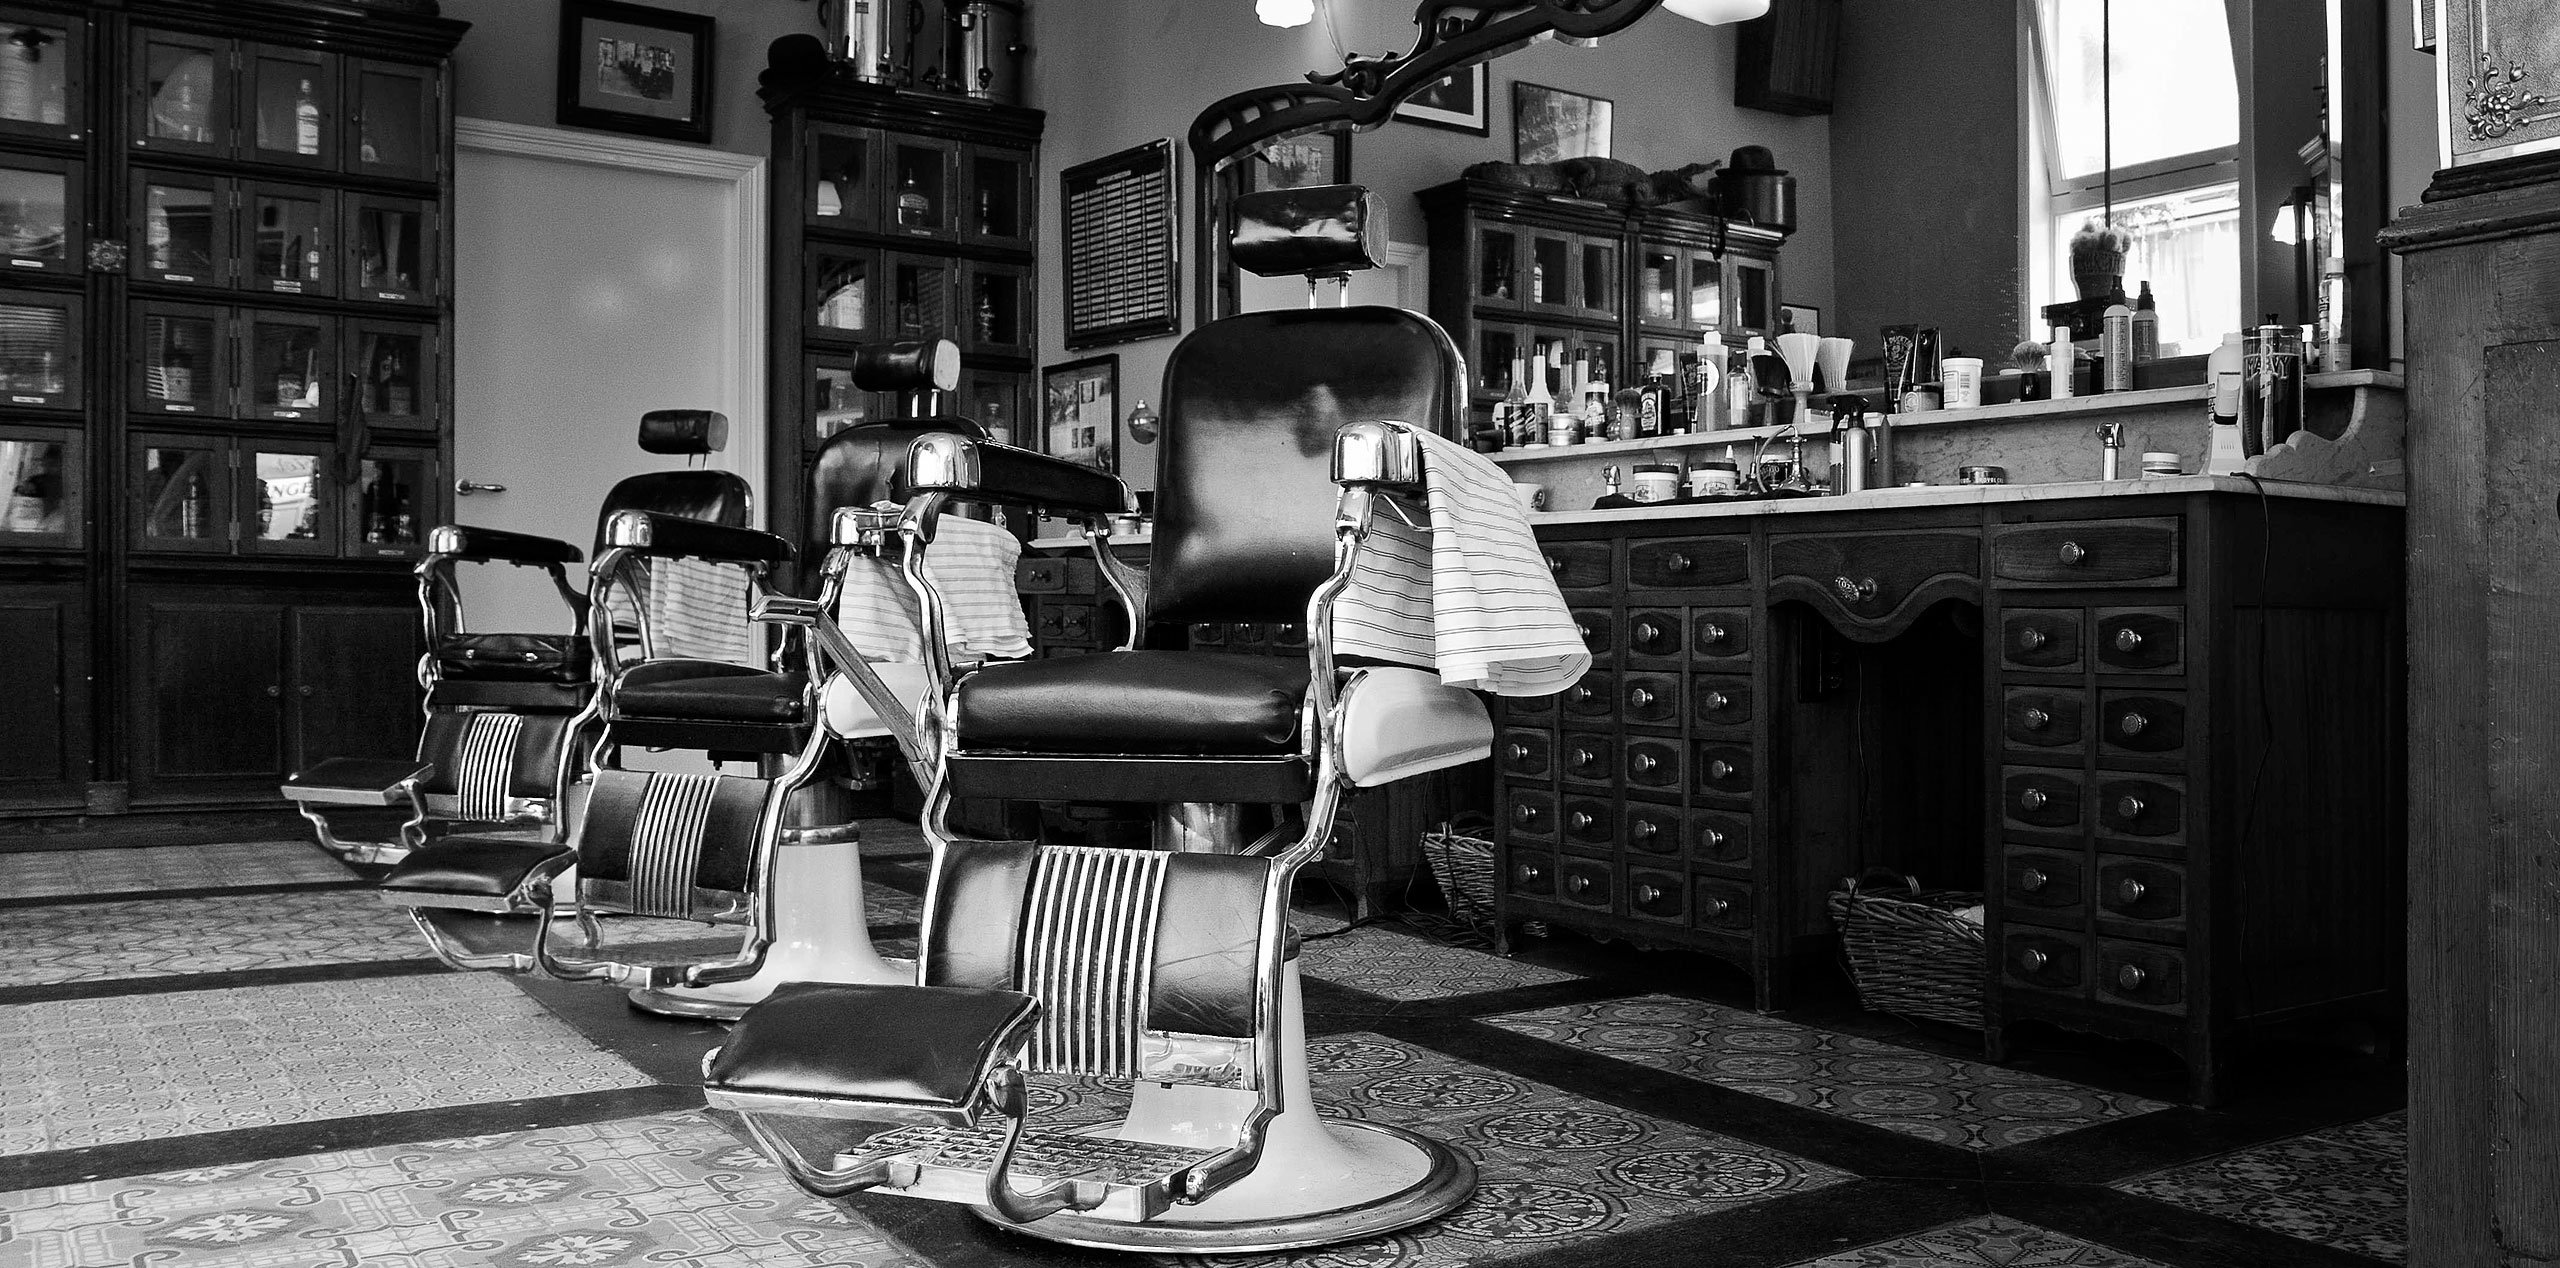
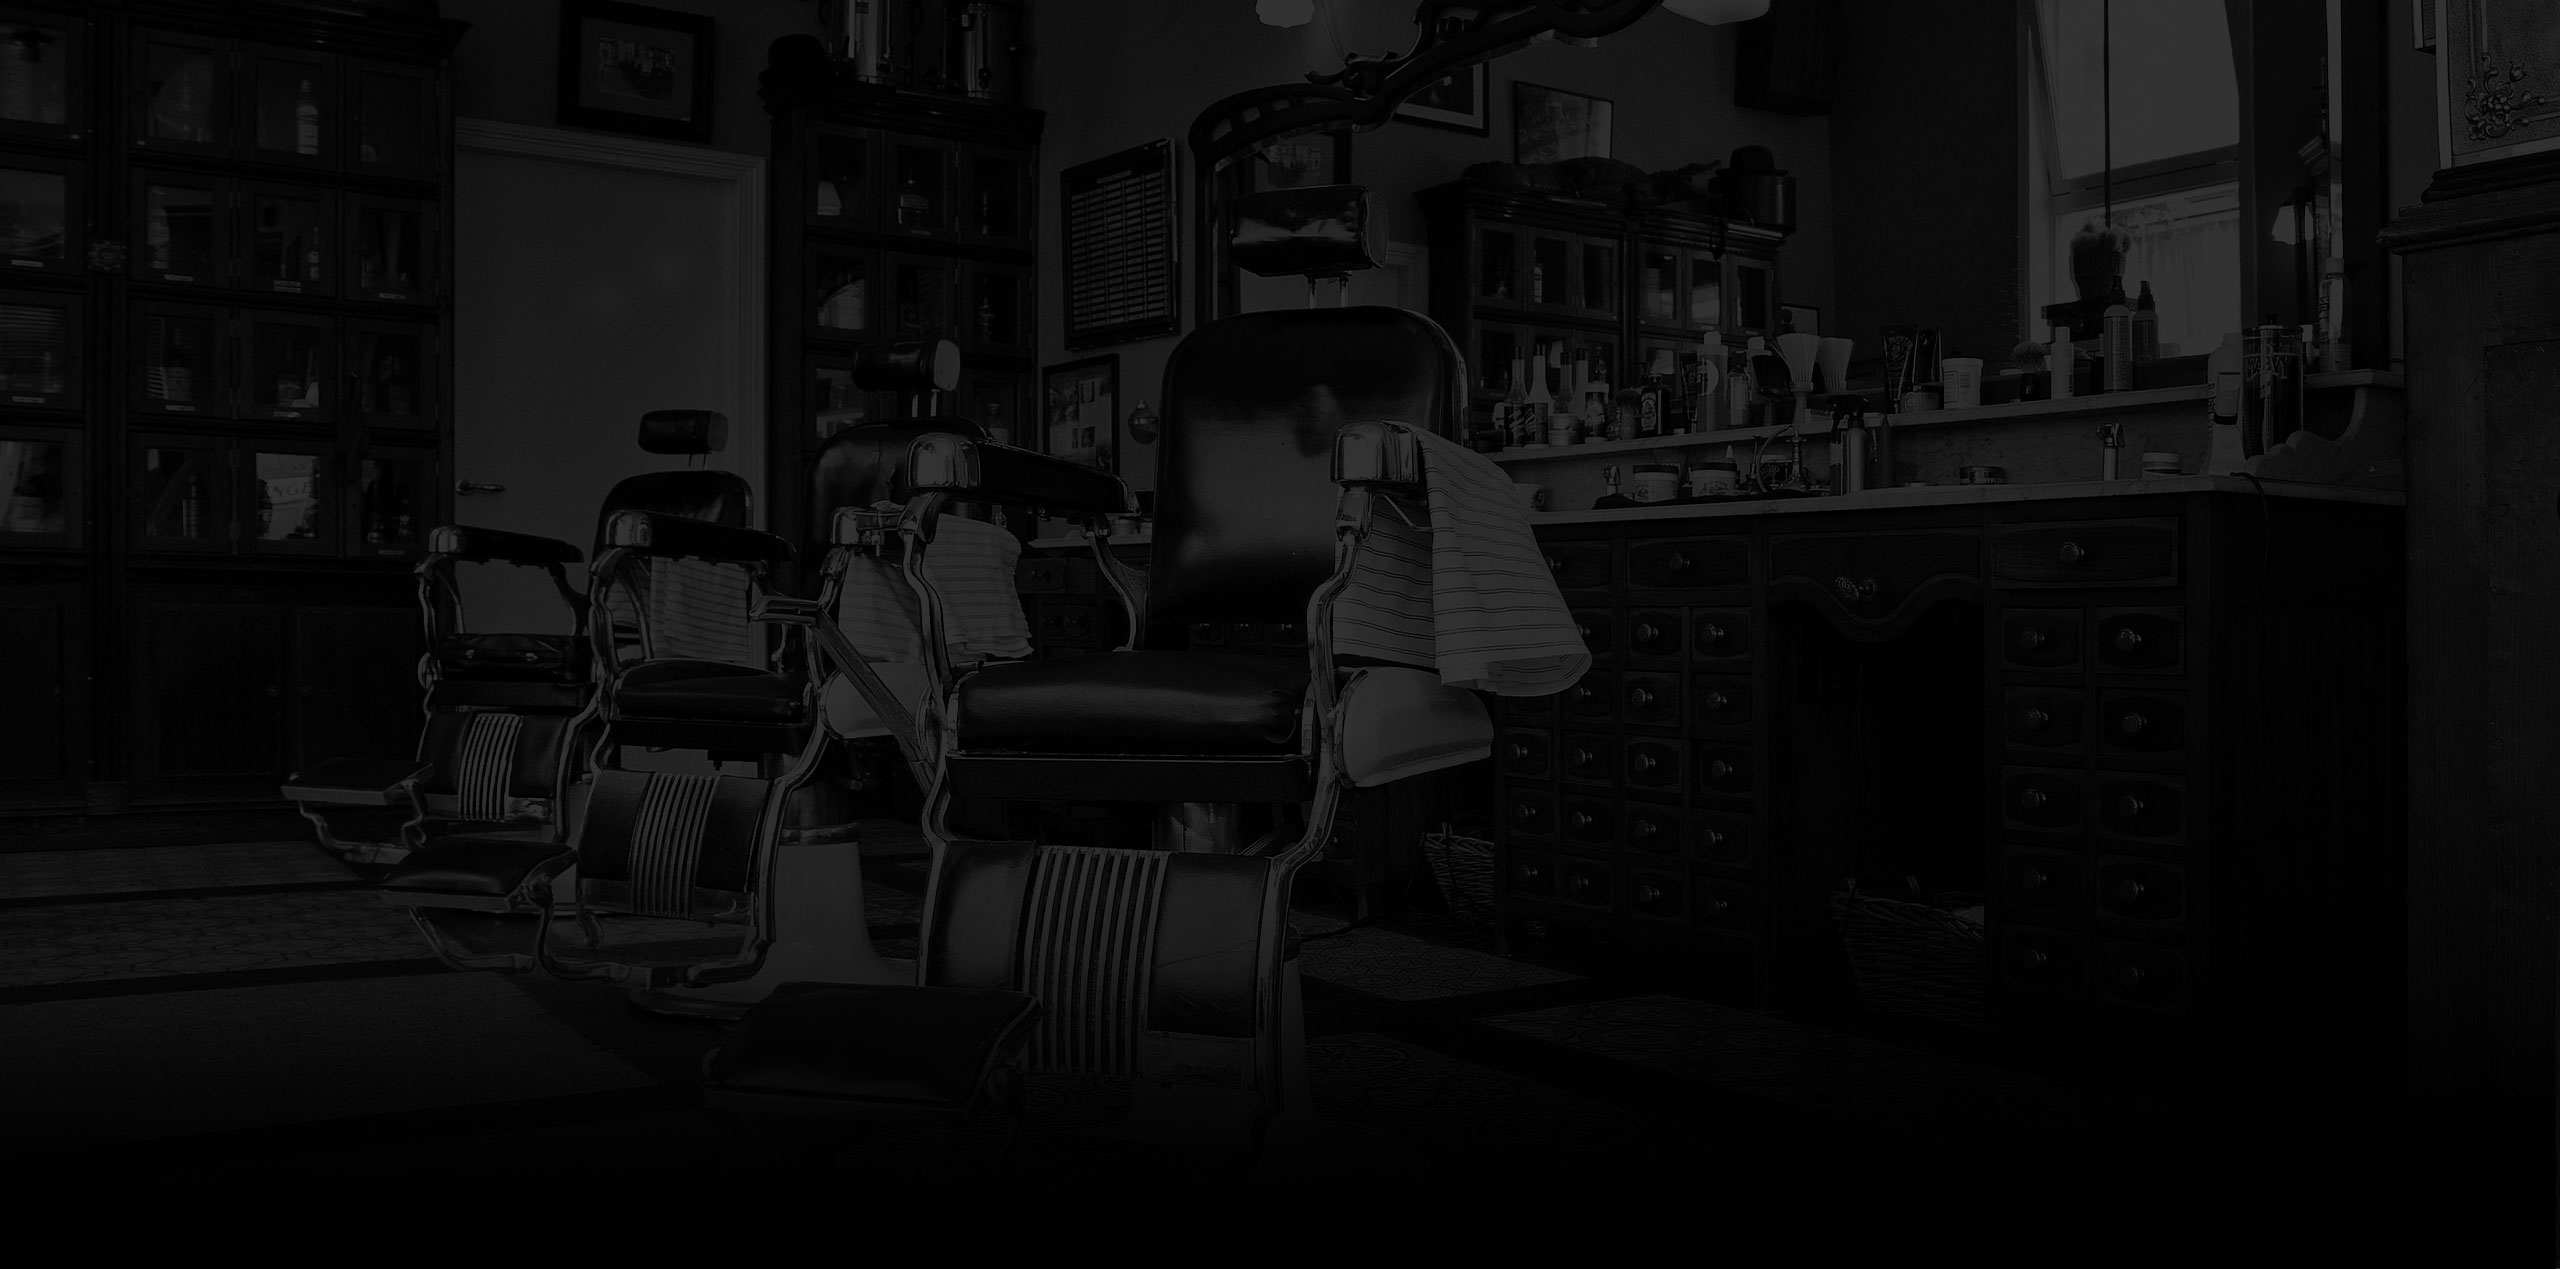
Added small part of index content style

diff --git a/index.html b/index.html
@@ -26,7 +26,7 @@
         </ul>
       </nav>
       <div class="user-block">
-        <a href="#" class="login">Вход</a>
+        <a href="#loginForm" class="login">Вход</a>
       </div>
     </div>
   </header>
@@ -37,18 +37,19 @@
     </div>
     <section class="features clearfix">
       <div class="features-item">
-        <div class="features-title">Дорого</div>
+        <h2 class="features-title">Быстро</h2>
         <p>Мы делаем свою работу быстро! Два часа пролетят незаметно, и вы - счастливый обладатель стильной стрижки-минутки!</p>
       </div>
       <div class="features-item">
-        <div class="features-title">Быстро</div>
+        <h2 class="features-title">Круто</h2>
         <p>Забудьте, как вы стриглись раньше. Мы сделаем из вас звезду футбола или кино! Во всяком случае, внешне.</p>
       </div>
       <div class="features-item">
-        <div class="features-title">Круто</div>
+        <h2 class="features-title">Дорого</h2>
         <p>Наши мастера - профессионалы своего дела и не могут стоить дешево. К тому же, разве цена не дает определенный статус?</p>
       </div>
     </section>
+
     <section class="index-content clearfix">
       <div class="content-column-left">
         <h2 class="content-column-title">Новости</h2>
@@ -71,14 +72,14 @@
             <img src="img/content-gallery-photo-1.jpg" width="286" height="164" alt="Фотография внутри барбершопа">
           </figure>
           <button class="btn gallery-prev">Назад</button>
-          <button class="btn galery-next">Вперед</button>
+          <button class="btn gallery-next">Вперед</button>
         </div>
       </div>
     </section>
     <section class="index-content clearfix">
       <div class="content-column-left">
         <div class="main-contacts">
-          <h2 class="content-column-title">Контактная информация</h2>
+          <h2 class="content-column-title">Контакты</h2>
           <p>
             Барбершоп «Бородинский»<br>
             Адрес: г.Москва, ул. Собаки Павлова, д. 13<br>
@@ -130,7 +131,7 @@
   </footer>
 
   <!-- Login window -->
-  <form class="login-form" action="/login" method="post">
+  <form class="login-form" id="loginForm" action="/login" method="post">
     <h2>Личный кабинет</h2>
     <p>Введите, пожалуйста, свой логин и пароль:</p>
     <input type="text" name="login" required>

diff --git a/css/style.css b/css/style.css
@@ -6,11 +6,11 @@ body {
   font-weight: bold;
   font-size: 14px;
   line-height: 24px;
-  /*background-image: url("../img/index-background.jpg");
+  background-color: #000;
+  background-image: url("../img/index-background.jpg");
   background-position: center top;
   background-repeat: no-repeat;
-  background-size: cover;
-  background-color: #fff;*/
+  color: #fff;
 }
 p,
 ul,
@@ -28,6 +28,9 @@ h3 {
 ul {
   list-style: none;
 }
+main {
+  color: #000;
+}
 .clearfix::after {
   content: "";
   display: table;
@@ -35,19 +38,36 @@ ul {
 }
 .container {
   width: 940px;
-  margin: auto;
+  margin: 0 auto;
 }
 .btn {
-  background-color: #fff;
-  color: #000;
+  display: inline-block;
+  background-color: #000;
+  color: #fff;
+  text-decoration: none;
+  padding: 8px 0;
+  text-transform: uppercase;
+  font-family: "PT Sans Narrow", sans-serif, Arial;
+  font-weight: bold;
+  font-size: 14px;
+  line-height: 24px;
+  border: none;
+  width: 140px;
+  text-align: center;
+}
+.inner-page {
+    background: white url("../img/content-background.jpg");
 }
 
+
 /* Header */
+
 .main-header {
   min-height: 70px;
   font-size: 16px;
   background-color: #000;
   vertical-align: top;
+  margin-bottom: 60px;
 }
 .main-header a {
   display: block;
@@ -97,8 +117,85 @@ ul {
   top: 27px;
   left: 19px;
 }
+.user-block a:hover::before {
+  opacity: 1;
+}
+
+/* Logo */
+
+.logo {
+  text-align: center;
+  margin-bottom: 20px;
+}
+
+/*Features*/
+.features {
+  margin-bottom: 65px;
+  color: #fff;
+}
+.features-item {
+  display: inline-block;
+  width: 33%;
+  text-align: center;
+}
+.features-title {
+  padding-bottom: 50px;
+  margin-bottom: 30px;
+  position: relative;
+}
+.features-title::after {
+  content: "";
+  position: absolute;
+  bottom: 0;
+  left: 145px;
+  width: 20px;
+  height: 20px;
+  background-color: #fff;
+  -webkit-transform: rotate(45deg);
+     -moz-transform: rotate(45deg);
+      -ms-transform: rotate(45deg);
+       -o-transform: rotate(45deg);
+          transform: rotate(45deg);
+}
+.features-item p {
+  padding: 0 20px;
+}
+
+/* Index content */
+
+.index-content {
+  background: url("../img/column-delimiter.png") no-repeat center, url("../img/content-background.jpg") repeat;
+  margin-bottom: 35px;
+}
+.content-column-left,
+.content-column-right {
+  width: 300px;
+  padding: 55px 80px;
+}
+.content-column-left {
+  float: left;
+}
+.content-column-right {
+  float: right;
+}
+.content-column-title {
+  margin-bottom: 40px;
+}
+.gallery-content {
+  margin-bottom: 35px;
+}
+.gallery-content img {
+  border: 7px solid #fff;
+}
+.gallery-prev {
+  float: left;
+}
+.gallery-next {
+  float: right;
+}
 
 /* Login window */
+
 .login-form {
   width: 300px;
   display: none;

diff --git a/item.html b/item.html
@@ -12,7 +12,7 @@
   <link rel="icon" href="img/favicon.ico" type="image/ico">
   <link href="http://fonts.googleapis.com/css?family=PT+Sans+Narrow:400,700&amp;subset=latin,cyrillic" rel="stylesheet" type="text/css">
 </head>
-<body>
+<body class="inner-page">
   <header class="main-header">
     <div class="container clearfix">
       <nav class="main-navigation">

diff --git a/price.html b/price.html
@@ -12,7 +12,7 @@
   <link rel="icon" href="img/favicon.ico" type="image/ico">
   <link href="http://fonts.googleapis.com/css?family=PT+Sans+Narrow:400,700&amp;subset=latin,cyrillic" rel="stylesheet" type="text/css">
 </head>
-<body>
+<body class="inner-page">
   <header class="main-header">
     <div class="container clearfix">
       <nav class="main-navigation">

diff --git a/shop.html b/shop.html
@@ -12,7 +12,7 @@
   <link rel="icon" href="img/favicon.ico" type="image/ico">
   <link href="http://fonts.googleapis.com/css?family=PT+Sans+Narrow:400,700&amp;subset=latin,cyrillic" rel="stylesheet" type="text/css">
 </head>
-<body>
+<body class="inner-page">
   <header class="main-header">
     <div class="container clearfix">
       <nav class="main-navigation">
